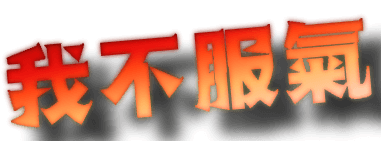
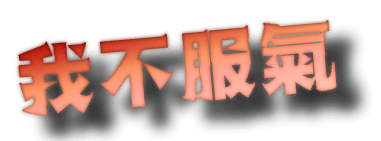
update

diff --git a/5.Shoot_the_Monster/index.js b/5.Shoot_the_Monster/index.js
@@ -264,12 +264,13 @@
 							'f11.png',
 							'f12.png',
 							'f13.png',
-							'f14.png'
+							'f14.png',
+							'f15.png'
 						];	
 
-			for(i=0; i<14; i++)
+			for(i=0; i<15; i++)
 		{	 
-			if(i < 14)
+			if(i < 15)
 			{
 				var dontGiveUpFontImage = document.createElement("IMG");
 				dontGiveUpFontImage.setAttribute("src", DontGiveUpFontArray[i]);	
@@ -348,8 +349,8 @@
 			dgu[myIndex-1].style.display = "block";
 			renderdgu = setTimeout(loopdgu,50);			
 			
-			if (myIndex === 13){
-				dgu[13].style.display = "block";
+			if (myIndex === 14){
+				dgu[14].style.display = "block";
 				clearTimeout(renderdgu);			
 			}			
 		}
@@ -583,8 +584,8 @@
 		
 			redLayer.style.display = "block";
 		
-			gameContainerBg.style.WebkitAnimationName = "getHurt2";
-			gameContainerBg.style.MozAnimationName = "getHurt2";
+			gameContainerBg.style.webkitAnimationName = "getHurt2";
+			gameContainerBg.style.mozAnimationName = "getHurt2";
 			gameContainerBg.style.animationName = "getHurt2";
 			
 			gameContainerBg.style.height ="100%";
@@ -596,33 +597,33 @@
 			gameContainerBg.style.mozAnimationDuration = "3s";
 			gameContainerBg.style.animationDuration= "3s";
 			
-			gameContainerBg.style.webkitAnimationDelay = "3s";
-			gameContainerBg.style.mozAnimationDelay = "3s";
-			gameContainerBg.style.animationDelay = "3s";
+			gameContainerBg.style.webkitAnimationDelay = "2.7s";
+			gameContainerBg.style.mozAnimationDelay = "2.7s";
+			gameContainerBg.style.animationDelay = "2.7s";
 			
-			innerContainer.style.WebkitAnimationName = "innerContainer2";
-			innerContainer.style.MozAnimationName = "innerContainer2";
+			innerContainer.style.webkitAnimationName = "innerContainer2";
+			innerContainer.style.mozAnimationName = "innerContainer2";
 			innerContainer.style.animationName = "innerContainer2";
 			
 			innerContainer.style.webkitAnimationDuration = "3s";
 			innerContainer.style.mozAnimationDuration = "3s";
 			innerContainer.style.animationDuration= "3s";
 			
-			innerContainer.style.webkitAnimationDelay = "3s";
-			innerContainer.style.mozAnimationDuration = "3s";
-			innerContainer.style.animationDelay = "3s";
+			innerContainer.style.webkitAnimationDelay = "2.7s";
+			innerContainer.style.mozAnimationDelay= "2.7s";
+			innerContainer.style.animationDelay = "2.7s";
 			
-			redLayer.style.WebkitAnimationName = "redLayer2";
-			redLayer.style.MozAnimationName = "redLayer2";
+			redLayer.style.webkitAnimationName = "redLayer2";
+			redLayer.style.mozAnimationName = "redLayer2";
 			redLayer.style.animationName = "redLayer2";
 			
 			redLayer.style.webkitAnimationDuration = "3s";
 			redLayer.style.mozAnimationDuration = "3s";
 			redLayer.style.animationDuration= "3s";
 			
-			redLayer.style.webkitAnimationDelay = "3s";
-			redLayer.style.mozAnimationDuration = "3s";
-			redLayer.style.animationDelay = "3s";
+			redLayer.style.webkitAnimationDelay = "2.7s";
+			redLayer.style.mozAnimationDelay = "2.7s";
+			redLayer.style.animationDelay = "2.7s";
 			
 	}
 	
@@ -700,20 +701,20 @@
 			heartImage[0].style.WebkitFilter = "brightness(20%)";
 			console.log(live);
 		}
-		
-		if (515 > countTime && live === 0){
-			// stopHurt();
-			// gameContainerBg.style.animationIterationCount = "1";
-			// gameContainerBg.style.mozAnimationIterationCount = "1";
-			// gameContainerBg.style.webkitAnimationIterationCount = "1";
+				
+		if (515 === countTime && live === 0){
+
+			gameContainerBg.style.animationIterationCount = "1";
+			gameContainerBg.style.mozAnimationIterationCount = "1";
+			gameContainerBg.style.webkitAnimationIterationCount = "1";
 			
-			// innerContainer.style.animationIterationCount = "1";
-			// innerContainer.style.mozAnimationIterationCount = "1";
-			// innerContainer.style.webkitAnimationIterationCount = "1";
+			innerContainer.style.animationIterationCount = "1";
+			innerContainer.style.mozAnimationIterationCount = "1";
+			innerContainer.style.webkitAnimationIterationCount = "1";
 			
-			// redLayer.style.animationIterationCount = "1";
-			// redLayer.style.mozAnimationIterationCount = "1";
-			// redLayer.style.webkitAnimationIterationCount = "1";
+			redLayer.style.animationIterationCount = "1";
+			redLayer.style.mozAnimationIterationCount = "1";
+			redLayer.style.webkitAnimationIterationCount = "1";
 			
 			// orc2.style.AnimationPlayState="paused";
 			// orc2.style.mozAnimationPlayState="paused";
@@ -754,6 +755,9 @@
 			againFontBG.style.animationPlayState="running";
 			againFontBG.style.mozAnimationPlayState="running";
 			againFontBG.style.webkitAnimationPlayState="running";
+			
+			attackBox2.style.zIndex = "-30";
+			attackBox3.style.zIndex = "-30";
 		}
 		
 	}	
@@ -927,6 +931,14 @@
 			
 			sparkAnimation();
 			
+			shootBox3.style.AnimationPlayState="running";
+			shootBox3.style.MozAnimationPlayState="running";
+			shootBox3.style.WebkitAnimationPlayState="running";
+			
+			shoot3.style.AnimationPlayState="running";
+			shoot3.style.MozAnimationPlayState="running";
+			shoot3.style.WebkitAnimationPlayState="running";
+			
 			count3[0].style.WebkitAnimationName = "removeIcon";
 			count3[0].style.MozAnimationName = "removeIcon";
 			count3[0].style.animationName = "removeIcon";
@@ -967,7 +979,6 @@
 		console.log(data);
 		begin();		
 		
-	
 		if(data === "againFontBG"){
 			window.location.reload();
 		}

diff --git a/5.Shoot_the_Monster/index.css b/5.Shoot_the_Monster/index.css
@@ -719,6 +719,7 @@
 		width: 28%;
 		bottom: 0%;
 		left: 67%;
+		
 		display:none;
 		background-Repeat:no-repeat;
 		background-Size : 100% 100%; 
@@ -5692,7 +5693,7 @@
     top: 11%;
     left: 5%;
     z-index: 101;
-	opacity: 0;
+	opacity: 1;
 	
 	animation-name: attackBox3;
 	animation-duration: 1s;
@@ -5757,23 +5758,23 @@
     overflow: hidden;
     height: 0%;
 	width: 0%;
-    top: 61%;
-    left: 35%;
+    top: 11%;
+    left: 27%;
     z-index: 96;
-    transform: rotate(-30deg);
+    transform: rotate(-42deg);
 	opacity:1;
 	
-	animation-name: shootBox2;
+	animation-name: shootBox3;
 	animation-duration: 1.5s;
 	animation-delay:0s;
 	animation-fill-mode: forwards;
 	animation-play-state: paused;
-	-moz-animation-name:shootBox2;
+	-moz-animation-name:shootBox3;
 	-moz-animation-duration:1.5s;	
 	-moz-animation-delay:0s;
 	-moz-animation-fill-mode: forwards;
 	-moz-animation-play-state: paused;
-	-webkit-animation-name: shootBox2;
+	-webkit-animation-name: shootBox3;
 	-webkit-animation-duration: 1.5s;
 	-webkit-animation-delay:0s;
 	-webkit-animation-fill-mode: forwards;
@@ -5788,7 +5789,7 @@
 		z-index: 96;
 	}
 	1%{
-		height: 45%;
+		height: 108%;
 		width: 5%;
 		opacity:1;
 		z-index: 96;
@@ -5797,7 +5798,7 @@
 		z-index: 96;
 	}
 	100%{
-		height: 43%;
+		height: 108%;
 		width: 5%;
 		opacity:1;
 		z-index: -30;
@@ -5811,7 +5812,7 @@
 		z-index: 96;
 	}
 	1%{
-		height: 45%;
+		height: 108%;
 		width: 5%;
 		opacity:1;
 		z-index: 96;
@@ -5820,7 +5821,7 @@
 		z-index: 96;
 	}
 	100%{
-		height: 43%;
+		height: 108%;
 		width: 5%;
 		opacity:1;
 		z-index: -30;
@@ -5834,7 +5835,7 @@
 		z-index: 96;
 	}
 	1%{
-		height: 45%;
+		height: 108%;
 		width: 5%;
 		opacity:1;
 		z-index: 96;
@@ -5843,7 +5844,7 @@
 		z-index: 96;
 	}
 	100%{
-		height: 43%;
+		height: 108%;
 		width: 5%;
 		opacity:1;
 		z-index: -30;
@@ -5854,25 +5855,25 @@
 	position: absolute;
     height: 59%;
     width: 100%;
-    top: 90%;
+    top: 86%;
     left: 4%;
-    transform: rotate(-18deg);
+    transform: rotate(-8deg);
     background-size: 100% 100%;
     background-Repeat: no-repeat;
     z-index: 96;
     opacity: 1;
 	
-	animation-name: shoot2;
+	animation-name: shoot3;
 	animation-duration: 1s;
 	animation-delay:0s;
 	animation-fill-mode: forwards;
 	animation-play-state: paused;
-	-moz-animation-name:shoot2;
+	-moz-animation-name:shoot3;
 	-moz-animation-duration:1s;	
 	-moz-animation-delay:0s;
 	-moz-animation-fill-mode: forwards;
 	-moz-animation-play-state: paused;
-	-webkit-animation-name: shoot2;
+	-webkit-animation-name: shoot3;
 	-webkit-animation-duration: 1s;
 	-webkit-animation-delay:0s;
 	-webkit-animation-fill-mode: forwards;
@@ -5881,7 +5882,7 @@
 	
 @keyframes shoot3{
 	0%{
-		top: 90%;
+		top: 86%;
 	}
 	30%{
 		top: -55%;
@@ -5892,7 +5893,7 @@
 }	
 @-moz-keyframes shoot3{
 	0%{
-		top: 90%;
+		top: 86%;
 	}
 	30%{
 		top: -55%;
@@ -5903,7 +5904,7 @@
 }	
 @-webkit-keyframes shoot3{
 	0%{
-		top: 90%;
+		top: 86%;
 	}
 	30%{
 		top: -55%;
@@ -6128,14 +6129,14 @@
 		left: 9%;
 		opacity: 1;
 	}
-	8%{
+	5%{
 		height: 23%;
 		width: 30%;
 		top: 95%;
 		left: 43%;
 		opacity: 1;
 	}
-	9%{		
+	6%{		
 		height: 23%;
 		width: 30%;
 		top: 98%;
@@ -6165,14 +6166,14 @@
 		left: 9%;
 		opacity: 1;
 	}
-	8%{
+	5%{
 		height: 23%;
 		width: 30%;
 		top: 95%;
 		left: 43%;
 		opacity: 1;
 	}
-	9%{		
+	6%{		
 		height: 23%;
 		width: 30%;
 		top: 98%;
@@ -6202,14 +6203,14 @@
 		left: 9%;
 		opacity: 1;
 	}
-	8%{
+	5%{
 		height: 23%;
 		width: 30%;
 		top: 95%;
 		left: 43%;
 		opacity: 1;
 	}
-	9%{		
+	6%{		
 		height: 23%;
 		width: 30%;
 		top: 98%;
